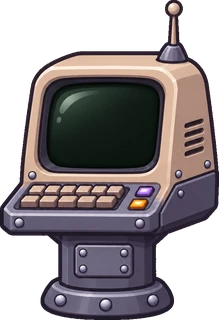
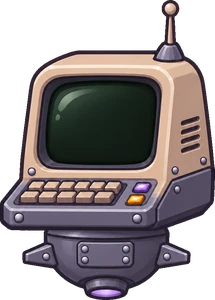
feat(home): Deep Thought 단말기를 떠다니는 드론형으로

diff --git a/apps/web/components/hud/Zannabi.module.css b/apps/web/components/hud/Zannabi.module.css
@@ -275,7 +275,7 @@
 
 .seat:hover img,
 .desk:hover img,
-.terminal:hover img,
+.terminal:hover .drone img,
 .body:has(.hit:hover) .sprite,
 .lane:has(.projector:hover) .holo {
   filter: drop-shadow(1px 0 0 #b9f5c8) drop-shadow(-1px 0 0 #b9f5c8) drop-shadow(0 1px 0 #b9f5c8) drop-shadow(0 -1px 0 #b9f5c8)
@@ -343,7 +343,7 @@
 
 .seat[data-done] img,
 .desk[data-done] img,
-.terminal[data-done] img,
+.terminal[data-done] .drone img,
 .body:has(.hit[data-done]) .sprite,
 .lane:has(.projector[data-done]) .holo {
   animation: pop 700ms ease-out;
@@ -394,17 +394,87 @@
 .terminal {
   position: absolute;
   left: 66cqh;
-  bottom: 0.69cqh;
-  height: 14cqh;
-  aspect-ratio: 219 / 320;
+  bottom: 3.2cqh;
+  height: 11.5cqh;
+  aspect-ratio: 215 / 300;
+}
+
+.drone {
+  position: absolute;
+  inset: 0;
+  animation: hover 3.2s ease-in-out infinite;
+}
+
+.drone img {
+  display: block;
+  width: 100%;
+  height: 100%;
+}
+
+.thrust {
+  position: absolute;
+  left: 49.2%;
+  top: 96%;
+  width: 22%;
+  aspect-ratio: 1.6;
+  translate: -50% 0;
+  border-radius: 50%;
+  background: radial-gradient(closest-side, rgb(200 170 255 / 0.85), rgb(157 116 211 / 0.35) 55%, transparent);
+  filter: blur(0.15cqh);
+  animation: thrust 0.35s steps(2, end) infinite alternate;
+}
+
+.shadow {
+  position: absolute;
+  left: 50%;
+  bottom: -2.6cqh;
+  width: 55%;
+  height: 0.9cqh;
+  translate: -50% 0;
+  border-radius: 50%;
+  background: radial-gradient(closest-side, rgb(157 116 211 / 0.4), transparent);
+  animation: shadow 3.2s ease-in-out infinite;
+}
+
+@keyframes hover {
+  0%,
+  100% {
+    translate: 0 0;
+  }
+  50% {
+    translate: 0 -0.7cqh;
+  }
+}
+
+@keyframes shadow {
+  0%,
+  100% {
+    scale: 1;
+    opacity: 1;
+  }
+  50% {
+    scale: 0.82;
+    opacity: 0.65;
+  }
+}
+
+@keyframes thrust {
+  from {
+    opacity: 0.7;
+    scale: 0.9;
+  }
+  to {
+    opacity: 1;
+    scale: 1.1;
+  }
 }
 
 .screen {
   position: absolute;
   left: 21.3%;
-  top: 25.7%;
-  width: 51.3%;
-  height: 26.8%;
+  top: 26.8%;
+  width: 51.5%;
+  height: 28.1%;
   display: grid;
   place-items: center;
   overflow: hidden;
@@ -468,5 +538,13 @@
   }
   100% {
     opacity: 1;
+  }
+}
+
+@media (prefers-reduced-motion: reduce) {
+  .drone,
+  .shadow,
+  .thrust {
+    animation: none;
   }
 }

diff --git a/apps/web/components/hud/Zannabi.tsx b/apps/web/components/hud/Zannabi.tsx
@@ -724,11 +724,15 @@ export function Zannabi() {
         <Tip>Read a book</Tip>
       </div>
       <div ref={termRef} className={styles.terminal} data-state="idle">
-        <img src="/world/cockpit-terminal.webp" alt="" width={219} height={320} draggable={false} />
-        <span className={styles.screen}>
-          <span className={styles.idle}>COMPUTING</span>
-          <span ref={readoutRef} className={styles.compute} />
-          <span className={styles.answer}>42</span>
+        <span className={styles.shadow} />
+        <span className={styles.drone}>
+          <img src="/world/cockpit-terminal.webp" alt="" width={215} height={300} draggable={false} />
+          <span className={styles.thrust} />
+          <span className={styles.screen}>
+            <span className={styles.idle}>COMPUTING</span>
+            <span ref={readoutRef} className={styles.compute} />
+            <span className={styles.answer}>42</span>
+          </span>
         </span>
         <Tip>Ask Deep Thought</Tip>
       </div>

diff --git a/docs/DESIGN.md b/docs/DESIGN.md
@@ -90,7 +90,7 @@
 | **Ask Zannabi** | 공개 글·프로젝트·이력에 관한 질문 | 질문 → 대화 패널, 답변과 원문 링크. 서버가 없어 우선 UI만 (`COMING SOON`) |
 | **레트로 단말기** | Ask Zannabi의 시각적 상징 | 대기 중 커서 깜빡임, 답변 생성 중 화면 변화 |
 | **Arcade 배너** | 대표 미니게임 또는 게임 목록 진입 | `Play`. 게임 전까지 `COMING SOON` |
-| **Zannabi** | 창틀 아래 데크를 걷는 마스코트. 활동 구역은 L(왼쪽 창틀 안쪽 모서리)부터 R = C + (C − L)까지(C는 화면에 렌더된 로고의 가로 중심, 2026-11-19 사용자 지정). R부터 오른쪽 창틀까지는 위젯 영역이고, 경계선은 그리지 않는다 | `Zannabi.tsx`. 레인 폭은 로고 `offsetLeft`로 R − L을 재서 넣고 화면·로고 크기가 바뀌면 다시 잰다. 이동 범위는 보이는 몸의 반폭 64u 기준. **v4 그림체(2026-11-19)**: 의자·데스크와 같은 ChatGPT 그림체로 바꿨다(`art/refs/zannabi-gpt-{style,walk,back}-v1.png` = 대기·걷기·뒷모습 기준). AutoSprite 캐릭터 `zannabi-v4`에 세 자세를 640 캔버스(1.743배, 중심 320, 밑창 544, 헬멧 중심 맞춤)로 올려 모든 클립의 시작·끝을 고정하고, 768px 원본으로 생성한다(작은 캐릭터+큰 캔버스라 광선검·깡충이 잘리지 않음). `art/scripts/zannabi_v4.py`가 한 번 정한 변환(2.08배, 176, 164)으로 칸에 옮기고 가장자리 회색 번짐을 외곽선색으로 바꿔 1배·2배 WebP 띠를 만든다(원본 시트는 저장소 밖 `Downloads/zannabi-v4/raw`, 채택 시트 id는 같은 폴더 `jobs.txt`). 픽셀 합성은 하지 않는다. 클립 21개: 대기(7fps, 숨 사이 1~3초 정지 — 쉬지 않고 숨쉬면 꿈틀거려 보였다), 걷기 시작·걷기(14장, 지지발 템플릿 매칭으로 잰 `advance`)·멈춤, 방향 돌기, 인사, 두리번, 하품, 졸기, 깡충, 광선검, 의자 독서(앉기·책장 넘기기·끄덕임·일어서기), 창밖 보기(뒤돌기·숨쉬기·고개 갸웃·한 손 대기·올려다보기·정면 복귀). 모든 클립 사이 이음매 차이는 1 이하. 클립마다 그리기 범위(box)가 있어 칸 밖으로 나가는 광선검(-52~265u)·깡충도 공통 캔버스에 그린다. 화면 밀도(dpr>1.25)에 맞는 한 벌만 받고, 대기·걷기 계열을 먼저 받은 뒤 나머지는 뒤에서 받는다. 아직 못 받은 클립이 필요한 행동은 고르지 않는다. 행동 가중치: 걷기 40, 두리번 12, 창밖 보기 12, 독서 10, 수련 8, 하품 8, 졸기 6, 깡충 6. 장소 목록(`places`: 독서=의자 중심+22u·오른쪽 보기, 수련=홀로그램 더미 앞 칼끝 240u·오른쪽 보기, 조종=데스크 30%·오른쪽 보기)이 설 자리·바라볼 방향·장면을 한곳에 갖고, 동선 계획기(`route`)가 모든 이동을 맡는다(돌아다니기 포함). 걸음 수를 정하고 보폭을 0.7~1.3배로 맞춰 정확히 도착하며, 걸음 수는 반올림·내림·올림을 차례로 시도한다. 96u보다 가까우면 걷기 반복 없이 출발→멈춤만 하는 짧은 이동(보폭 0.7~1배 = 67~95u, 보폭이 크면 다리가 툭 바뀌어 보여 작게만 쓴다), 그보다 가까우면 한 번 비켜 섰다가(목적지에서 137u 또는 1.5배 떨어진 곳) 다시 온다. 4u 이내면 걷지 않는다. 장소 요청: 의자·데스크·홀로그램 투사기(꺼져 있을 때 보이는 바닥 받침)·잔나비를 누르고 0.9초 버티면(툴팁 게이지가 가득 차면) 독서·조종·수련·인사를 한다. 짧은 클릭이나 올려 두기로는 아무 일도 없고, 중간에 떼면 게이지가 튕기듯 돌아간다. 이미 그 장소로 가는 중이거나 장면을 하는 중이면 무시하고, 마무리 단계(일어서기·정면 복귀 등)면 받아서 끝난 뒤 다시 한다. 끼어들기 규칙(인사·장소 클릭 공통): 앉아 있으면 일어서기만, 조종 중이면 정면 복귀만, 창밖 보기 중이면 정면 복귀만 남기고, 수련은 끝까지 한다. 걷는 중이면 이번 걸음에서 멈추고 남은 장면을 버린 뒤 새 요청을 한다. 대기 중엔 숨 동작 한 바퀴를 기다리지 않고 0번 프레임과 차이가 작은 칸(0~3, 11~14, 23~27)에서 바로 시작해 길어야 1초 안에 반응한다. 인사는 쿨다운 없음, 앉아 있으면 일어선 뒤 인사. 마우스를 올리면 물건 외곽선이 연초록으로 빛나고 위에 툴팁(Read a book·Pilot the ship·Saber training·Say hi + 화살표, 가운데 정렬)이 뜬다. 툴팁은 #262626 알약에 연초록 얇은 테두리, 누르는 동안 왼쪽부터 연초록이 차오르고 찬 부분 글자는 어둡게 반전된다(DesignBookmark Hold Button은 느낌만 참고해 다시 만듦). 동작 줄이기면 대기 첫 프레임만. 조종석: 등받이 없는 의자(`cockpit-stool.webp`, left 16.75cqh, 높이 7.1cqh — 앉는 클립 재생 중엔 숨김)와 데스크(`cockpit-desk.webp`, 오른쪽 끝에 책 더미·메모, left 28.64cqh, bottom 1cqh, 높이 16.74cqh, 조종간 보라 버튼·주황 불빛은 CSS 깜빡임). 수련: 활동 구역 오른쪽 끝의 홀로그램 투사기(`hologram-dummy.webp`, AutoSprite 에셋 애니메이션 h2를 거꾸로 = 빛기둥이 내려와 아래부터 차오름, 끝나면 납작해져 빛기둥으로 꺼짐, 초록 그대로) 앞에서 광선검을 휘두르고, 칼끝이 닿는 프레임에 더미가 번쩍이고 흔들린다. 광선검은 끝까지 오른쪽을 보고 베고 찌르는 saberS1·saberS3 중 무작위(2026-11-19, 몸을 돌려 반대쪽을 베던 saberA 교체). 칼과 궤적이 768 생성 칸 밖으로 잘리지 않게 대기 자세를 0.8배로 줄인 'V4 Idle Small 0.8'에서 생성하고, 빌드 스크립트의 클립별 배율(fit)로 같은 크기로 되돌린다. 칼끝 기준 거리 SABER_REACH 250u. 잔나비 캔버스는 궤적을 담으려 -60~360u, 위로 -60u까지 넓혔다. 조종(가중치 10): 데스크 왼쪽에서 30% 지점(왼손이 조종간, 오른손이 주황 버튼 위)으로 걸어가 뒤돌고, 맨손 콘솔 조작 클립(AI가 콘솔을 따로 그린 후보는 뺐다)을 하는 동안 데스크 불빛이 빨라진다. Deep Thought 단말기(2026-11-19, ChatGPT 그림 `art/refs/cockpit/terminal-gpt-v1.png` → `cockpit-terminal.webp`, 데스크와 홀로그램 사이 left 66cqh·높이 14cqh): 화면은 코드로 그린다. 평소 COMPUTING_(커서 깜빡임), 장소 'ask'(가중치 6, 단말기 왼쪽 34u 앞에서 오른쪽 보기)에 가면 두리번거리는 동안 16진수가 뒤섞이고(compute), 대기로 돌아오며 42가 4.5초 뜬다(answer). 툴팁 Ask Deep Thought. 나중에 Ask Zannabi 입구, 두드리는 클립은 따로 뽑을 예정. 데스크 위 지구본 홀로그램: AutoSprite 돌기 A(24장 반복, 10.5fps)와 사라지기 B(25장, 거꾸로 = 나타나기, 21fps), 조종 시작·끝에 맞춰 켜지고 꺼진다. 빛기둥은 뺐다. 창 유리 HUD(`components/space/CockpitHud.tsx`, `cockpit:hud` 이벤트)는 우측 상단 행성 왼쪽 위(930,140)의 작은 [+] 조준 괄호(반지름 11, 선 굵기 2.2, 연결선 1.5, 글자만 8.5px = 1080p에서 약 13px)와 짧은 연결선, 문구 한 줄(TARGET: KEPLER-442b · 4.2 AU)뿐이다(2026-11-19, 예전 GPT 시안의 조준 문구 그대로의 크기). 괄호가 조여 들어오고 연결선이 그려진 뒤 문구가 스크램블로 나타나며, 켜진 뒤엔 5초마다 한 번 살짝 지지직. 1280×720 SVG(slice)라 화면 크기와 상관없이 행성에 맞는다. 큰 조준선·행성 격자 스캔(AutoSprite로 시험)은 과하다고 해서 뺐다. 데스크 홀로그램(레이더 화면 위 지구본)은 GPT 그림 → AutoSprite로 만들 예정. 인사가 오면 남은 조작을 버리고 정면 복귀. 데스크에서는 오른쪽을 보고 선 뒤 뒤돈다. 돌기 장면은 정지 꼬리를 잘라 빠르게: 방향 돌기 20fps(첫 장 제외), 뒤돌기·정면 복귀 16fps. 뒷모습은 머리와 몸이 같이 오른쪽을 보는 `art/refs/zannabi-gpt-back-v2.png`(v1은 머리는 오른쪽·몸은 왼쪽이라 비틀려 보였다)를 AutoSprite 자세 'V4 Back Right Padded'로 올려 다시 만들었다: 뒤돌기 RbackB(한 걸음), 정면 복귀 RfrontA, 콘솔 RconsoleA→RconsoleB(두 번째 조작), 숨쉬기 RbreatheA, 창밖 보기는 올려다보기 RlookupB 하나(갸웃·손 대기는 뺐다). 인사는 정면으로 돌아서 화면 쪽(방문자)에게 "안녕" 하고 흔드는 `waveVB`(옆을 보고 흔들던 waveB 교체). 시행착오: 프롬프트에 window·stars를 쓰면 배경에 그려진다, 뒷모습 클립에서 '돌아본다'고 쓰면 얼굴을 이쪽으로 돌린다, AutoSprite 정지 소품은 그림체가 달라 쓰지 않는다 |
+| **Zannabi** | 창틀 아래 데크를 걷는 마스코트. 활동 구역은 L(왼쪽 창틀 안쪽 모서리)부터 R = C + (C − L)까지(C는 화면에 렌더된 로고의 가로 중심, 2026-11-19 사용자 지정). R부터 오른쪽 창틀까지는 위젯 영역이고, 경계선은 그리지 않는다 | `Zannabi.tsx`. 레인 폭은 로고 `offsetLeft`로 R − L을 재서 넣고 화면·로고 크기가 바뀌면 다시 잰다. 이동 범위는 보이는 몸의 반폭 64u 기준. **v4 그림체(2026-11-19)**: 의자·데스크와 같은 ChatGPT 그림체로 바꿨다(`art/refs/zannabi-gpt-{style,walk,back}-v1.png` = 대기·걷기·뒷모습 기준). AutoSprite 캐릭터 `zannabi-v4`에 세 자세를 640 캔버스(1.743배, 중심 320, 밑창 544, 헬멧 중심 맞춤)로 올려 모든 클립의 시작·끝을 고정하고, 768px 원본으로 생성한다(작은 캐릭터+큰 캔버스라 광선검·깡충이 잘리지 않음). `art/scripts/zannabi_v4.py`가 한 번 정한 변환(2.08배, 176, 164)으로 칸에 옮기고 가장자리 회색 번짐을 외곽선색으로 바꿔 1배·2배 WebP 띠를 만든다(원본 시트는 저장소 밖 `Downloads/zannabi-v4/raw`, 채택 시트 id는 같은 폴더 `jobs.txt`). 픽셀 합성은 하지 않는다. 클립 21개: 대기(7fps, 숨 사이 1~3초 정지 — 쉬지 않고 숨쉬면 꿈틀거려 보였다), 걷기 시작·걷기(14장, 지지발 템플릿 매칭으로 잰 `advance`)·멈춤, 방향 돌기, 인사, 두리번, 하품, 졸기, 깡충, 광선검, 의자 독서(앉기·책장 넘기기·끄덕임·일어서기), 창밖 보기(뒤돌기·숨쉬기·고개 갸웃·한 손 대기·올려다보기·정면 복귀). 모든 클립 사이 이음매 차이는 1 이하. 클립마다 그리기 범위(box)가 있어 칸 밖으로 나가는 광선검(-52~265u)·깡충도 공통 캔버스에 그린다. 화면 밀도(dpr>1.25)에 맞는 한 벌만 받고, 대기·걷기 계열을 먼저 받은 뒤 나머지는 뒤에서 받는다. 아직 못 받은 클립이 필요한 행동은 고르지 않는다. 행동 가중치: 걷기 40, 두리번 12, 창밖 보기 12, 독서 10, 수련 8, 하품 8, 졸기 6, 깡충 6. 장소 목록(`places`: 독서=의자 중심+22u·오른쪽 보기, 수련=홀로그램 더미 앞 칼끝 240u·오른쪽 보기, 조종=데스크 30%·오른쪽 보기)이 설 자리·바라볼 방향·장면을 한곳에 갖고, 동선 계획기(`route`)가 모든 이동을 맡는다(돌아다니기 포함). 걸음 수를 정하고 보폭을 0.7~1.3배로 맞춰 정확히 도착하며, 걸음 수는 반올림·내림·올림을 차례로 시도한다. 96u보다 가까우면 걷기 반복 없이 출발→멈춤만 하는 짧은 이동(보폭 0.7~1배 = 67~95u, 보폭이 크면 다리가 툭 바뀌어 보여 작게만 쓴다), 그보다 가까우면 한 번 비켜 섰다가(목적지에서 137u 또는 1.5배 떨어진 곳) 다시 온다. 4u 이내면 걷지 않는다. 장소 요청: 의자·데스크·홀로그램 투사기(꺼져 있을 때 보이는 바닥 받침)·잔나비를 누르고 0.9초 버티면(툴팁 게이지가 가득 차면) 독서·조종·수련·인사를 한다. 짧은 클릭이나 올려 두기로는 아무 일도 없고, 중간에 떼면 게이지가 튕기듯 돌아간다. 이미 그 장소로 가는 중이거나 장면을 하는 중이면 무시하고, 마무리 단계(일어서기·정면 복귀 등)면 받아서 끝난 뒤 다시 한다. 끼어들기 규칙(인사·장소 클릭 공통): 앉아 있으면 일어서기만, 조종 중이면 정면 복귀만, 창밖 보기 중이면 정면 복귀만 남기고, 수련은 끝까지 한다. 걷는 중이면 이번 걸음에서 멈추고 남은 장면을 버린 뒤 새 요청을 한다. 대기 중엔 숨 동작 한 바퀴를 기다리지 않고 0번 프레임과 차이가 작은 칸(0~3, 11~14, 23~27)에서 바로 시작해 길어야 1초 안에 반응한다. 인사는 쿨다운 없음, 앉아 있으면 일어선 뒤 인사. 마우스를 올리면 물건 외곽선이 연초록으로 빛나고 위에 툴팁(Read a book·Pilot the ship·Saber training·Say hi + 화살표, 가운데 정렬)이 뜬다. 툴팁은 #262626 알약에 연초록 얇은 테두리, 누르는 동안 왼쪽부터 연초록이 차오르고 찬 부분 글자는 어둡게 반전된다(DesignBookmark Hold Button은 느낌만 참고해 다시 만듦). 동작 줄이기면 대기 첫 프레임만. 조종석: 등받이 없는 의자(`cockpit-stool.webp`, left 16.75cqh, 높이 7.1cqh — 앉는 클립 재생 중엔 숨김)와 데스크(`cockpit-desk.webp`, 오른쪽 끝에 책 더미·메모, left 28.64cqh, bottom 1cqh, 높이 16.74cqh, 조종간 보라 버튼·주황 불빛은 CSS 깜빡임). 수련: 활동 구역 오른쪽 끝의 홀로그램 투사기(`hologram-dummy.webp`, AutoSprite 에셋 애니메이션 h2를 거꾸로 = 빛기둥이 내려와 아래부터 차오름, 끝나면 납작해져 빛기둥으로 꺼짐, 초록 그대로) 앞에서 광선검을 휘두르고, 칼끝이 닿는 프레임에 더미가 번쩍이고 흔들린다. 광선검은 끝까지 오른쪽을 보고 베고 찌르는 saberS1·saberS3 중 무작위(2026-11-19, 몸을 돌려 반대쪽을 베던 saberA 교체). 칼과 궤적이 768 생성 칸 밖으로 잘리지 않게 대기 자세를 0.8배로 줄인 'V4 Idle Small 0.8'에서 생성하고, 빌드 스크립트의 클립별 배율(fit)로 같은 크기로 되돌린다. 칼끝 기준 거리 SABER_REACH 250u. 잔나비 캔버스는 궤적을 담으려 -60~360u, 위로 -60u까지 넓혔다. 조종(가중치 10): 데스크 왼쪽에서 30% 지점(왼손이 조종간, 오른손이 주황 버튼 위)으로 걸어가 뒤돌고, 맨손 콘솔 조작 클립(AI가 콘솔을 따로 그린 후보는 뺐다)을 하는 동안 데스크 불빛이 빨라진다. Deep Thought 단말기(2026-11-19, 받침대형 `terminal-gpt-v1.png`에서 사용자 요청으로 떠다니는 드론형 `art/refs/cockpit/terminal-drone-gpt-v1.png` → `cockpit-terminal.webp`, 데스크와 홀로그램 사이 left 66cqh·바닥에서 3.2cqh 떠서 높이 11.5cqh). 3.2초 주기로 위아래 0.7cqh 떠다니고(화면 글자도 같이), 아래 추진기 라벤더 불빛이 깜빡이며, 데크에 라벤더 그림자가 높이에 따라 줄었다 늘어난다: 화면은 코드로 그린다. 평소 COMPUTING_(커서 깜빡임), 장소 'ask'(가중치 6, 단말기 왼쪽 34u 앞에서 오른쪽 보기)에 가면 두리번거리는 동안 16진수가 뒤섞이고(compute), 대기로 돌아오며 42가 4.5초 뜬다(answer). 툴팁 Ask Deep Thought. 나중에 Ask Zannabi 입구, 두드리는 클립은 따로 뽑을 예정. 데스크 위 지구본 홀로그램: AutoSprite 돌기 A(24장 반복, 10.5fps)와 사라지기 B(25장, 거꾸로 = 나타나기, 21fps), 조종 시작·끝에 맞춰 켜지고 꺼진다. 빛기둥은 뺐다. 창 유리 HUD(`components/space/CockpitHud.tsx`, `cockpit:hud` 이벤트)는 우측 상단 행성 왼쪽 위(930,140)의 작은 [+] 조준 괄호(반지름 11, 선 굵기 2.2, 연결선 1.5, 글자만 8.5px = 1080p에서 약 13px)와 짧은 연결선, 문구 한 줄(TARGET: KEPLER-442b · 4.2 AU)뿐이다(2026-11-19, 예전 GPT 시안의 조준 문구 그대로의 크기). 괄호가 조여 들어오고 연결선이 그려진 뒤 문구가 스크램블로 나타나며, 켜진 뒤엔 5초마다 한 번 살짝 지지직. 1280×720 SVG(slice)라 화면 크기와 상관없이 행성에 맞는다. 큰 조준선·행성 격자 스캔(AutoSprite로 시험)은 과하다고 해서 뺐다. 데스크 홀로그램(레이더 화면 위 지구본)은 GPT 그림 → AutoSprite로 만들 예정. 인사가 오면 남은 조작을 버리고 정면 복귀. 데스크에서는 오른쪽을 보고 선 뒤 뒤돈다. 돌기 장면은 정지 꼬리를 잘라 빠르게: 방향 돌기 20fps(첫 장 제외), 뒤돌기·정면 복귀 16fps. 뒷모습은 머리와 몸이 같이 오른쪽을 보는 `art/refs/zannabi-gpt-back-v2.png`(v1은 머리는 오른쪽·몸은 왼쪽이라 비틀려 보였다)를 AutoSprite 자세 'V4 Back Right Padded'로 올려 다시 만들었다: 뒤돌기 RbackB(한 걸음), 정면 복귀 RfrontA, 콘솔 RconsoleA→RconsoleB(두 번째 조작), 숨쉬기 RbreatheA, 창밖 보기는 올려다보기 RlookupB 하나(갸웃·손 대기는 뺐다). 인사는 정면으로 돌아서 화면 쪽(방문자)에게 "안녕" 하고 흔드는 `waveVB`(옆을 보고 흔들던 waveB 교체). 시행착오: 프롬프트에 window·stars를 쓰면 배경에 그려진다, 뒷모습 클립에서 '돌아본다'고 쓰면 얼굴을 이쪽으로 돌린다, AutoSprite 정지 소품은 그림체가 달라 쓰지 않는다 |
 | **카피라이트** | `© 2026 Deep Thought. All rights reserved.` | 오른쪽 아래(유리 오른쪽 5%, 바닥 28px), 모노플렉스 KR 14px·400, 크림 그대로(흐리게 하지 않음) |
 
 - **로고:** 유리 칸 폭의 32%(1080p 약 520px), 왼쪽 칸의 위 19cqh·왼쪽 9%(2026-11-19 12cqh에서 두 번 내림) (2026-11-18 Zannabi 자리를 넓히려고 좌상단으로 옮김), 원본 그림을 매끄럽게 줄여 쓴다. 420칸 픽셀 아트로 다시 찍어 정수·0.25배로 키우는 방식은 원본보다 거칠고 1.25배에서 깨져 보여 버렸다. 반짝이·토성·그려지는 등장 효과도 없앴다 (2026-11-18)
